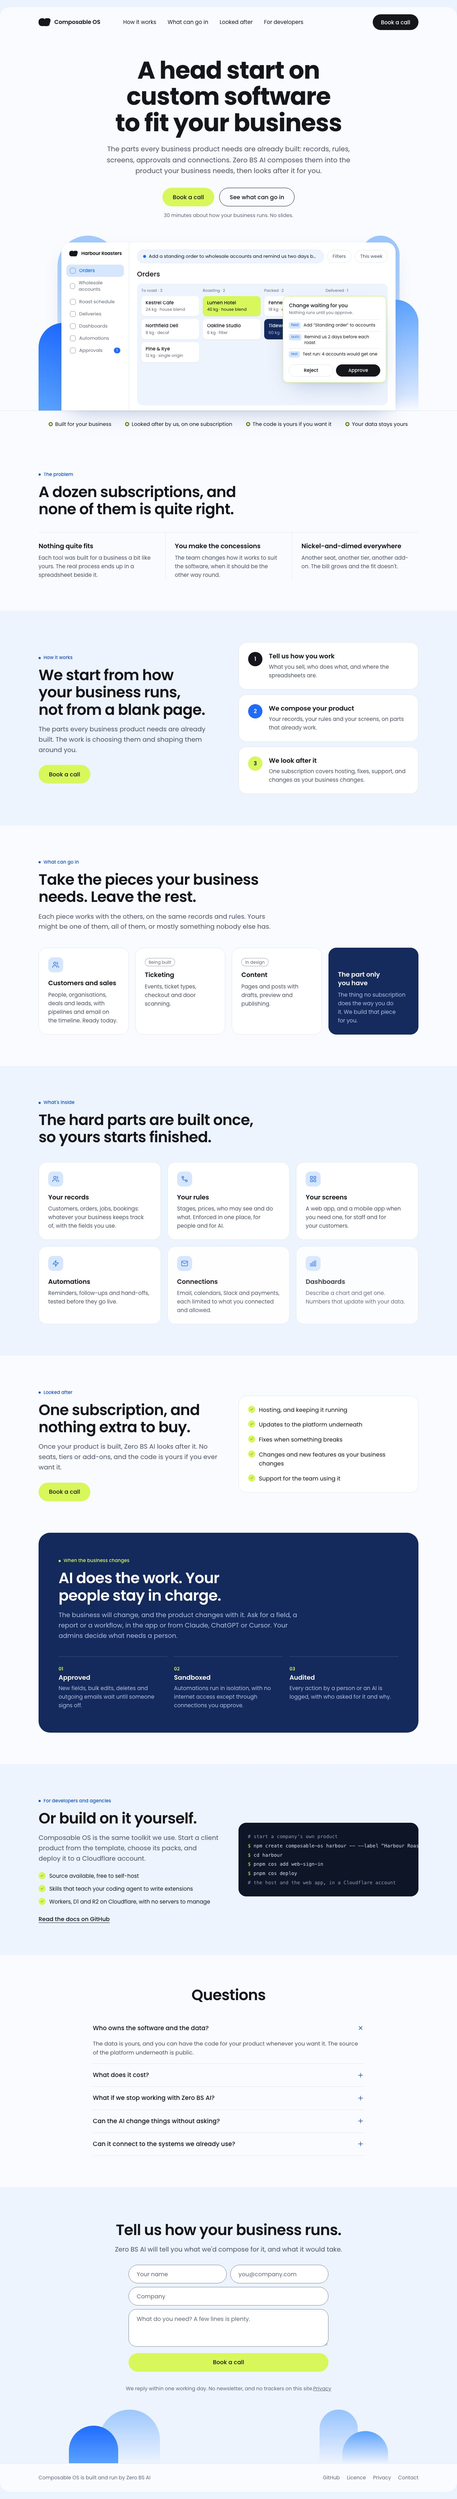
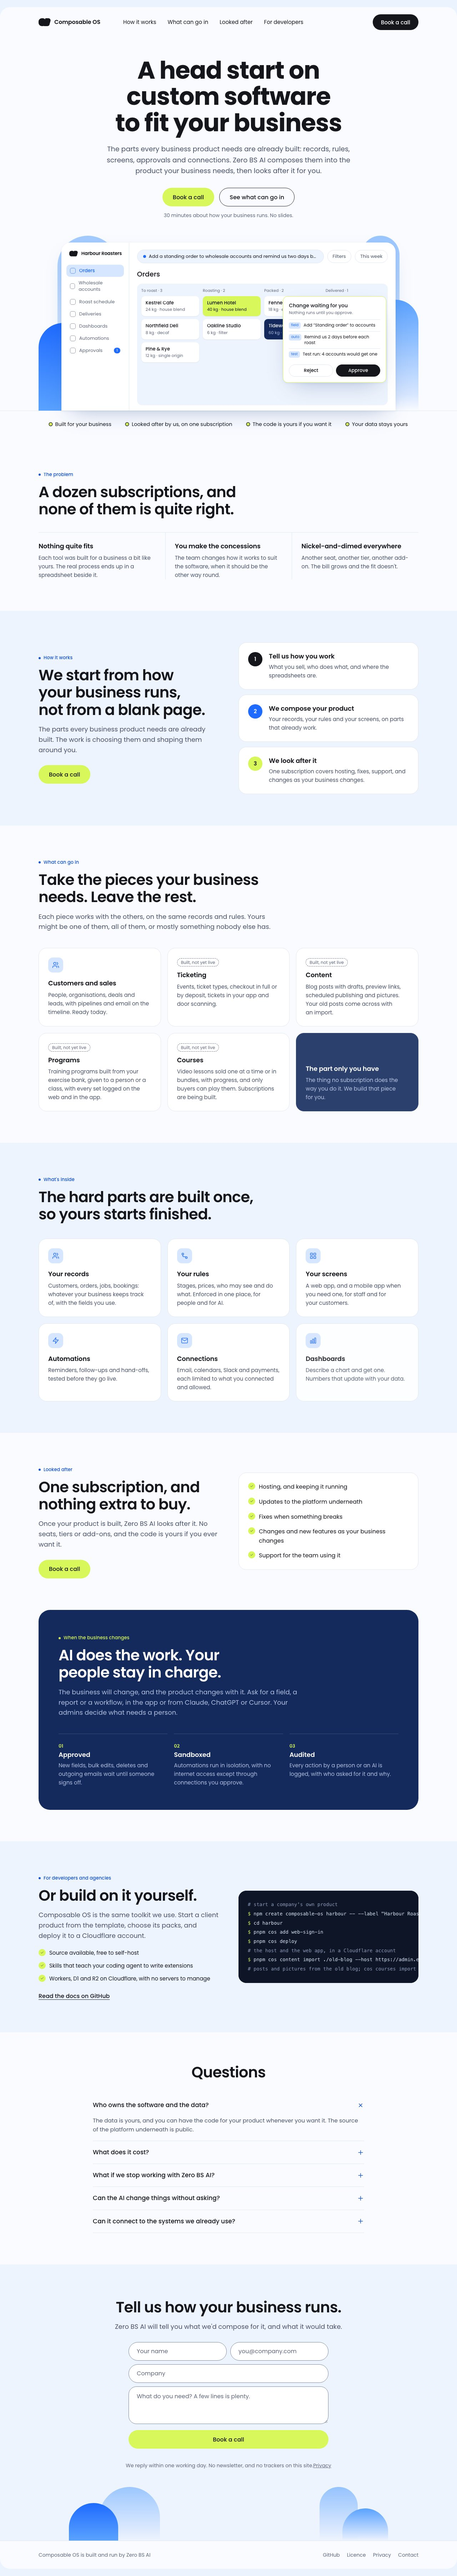
Site: catch up with the packs on main (Ticketing, Content, Programs, Courses), the import commands, and the roadmap's status cells
Row 5 gives Ticketing, Content, Programs and Courses the status 'Built, not yet live' (built,
merged and tested; no customer yet; Stripe and Stream run only against the test double), with
Courses' subscriptions 'being built' (stage 32a, PR #218 merged, step 3 on a branch). SITE.md
says what each status word means, when a pack moves to 'Ready today', and why Stream and Stripe
Tax add no connection. The developer section shows cos content import and names cos courses
import. The roadmap's cells for stages 27, 28, 32, 41 and 42 say what is merged and what has not
run.

diff --git a/apps/marketing/src/styles/landing.css b/apps/marketing/src/styles/landing.css
@@ -304,9 +304,6 @@
   gap: 18px;
   margin-top: 44px;
 }
-.grid.four {
-  grid-template-columns: repeat(4, 1fr);
-}
 .grid .card p {
   font-size: 15px;
   margin-top: 8px;
@@ -652,7 +649,6 @@
     width: 250px;
   }
   .grid,
-  .grid.four,
   .pains,
   .call {
     grid-template-columns: 1fr;
@@ -672,10 +668,5 @@
   }
   .final {
     padding-top: 64px;
-  }
-}
-@media (min-width: 901px) and (max-width: 1100px) {
-  .grid.four {
-    grid-template-columns: repeat(2, 1fr);
   }
 }

diff --git a/docs/roadmap.md b/docs/roadmap.md
@@ -31,8 +31,8 @@ risk for the next.
 | 24 | Client apps | One `cos` command; a template for new client repos (TanStack Start web, Expo mobile) and an adopt path for existing ones; platform packages on npm; the service binding to the host, with customers signing in on the company's domain; packs as packages with headless hooks; MIT blocks shipped inside the release | built, in review |
 | 25 | States, orders and payments | One transition engine under `states` and `stages`; the Order base record, priced by the host, in one currency per deployment; guest checkout; a payments gatekeeper for Stripe on the org's own account, with a hosted page, webhooks and refunds through approval | built, in review |
 | 26 | Capacity and holds | The `capacity` behaviour: places that never go below zero, holds that last as long as their unpaid order, in the write's own batch | built, in review |
-| 27 | Ticketing, and Ghetto as the first client | The Ticketing pack (events, ticket types, tickets, check-in); web checkout, the app's ticket wallet and door scanning for Ghetto Movement; packages and paying by deposit | spec agreed |
-| 28 | Content | The `publishable` behaviour, rich text as structured JSON, media, slugs, preview; the Content pack; Ghetto's blog off EmDash | spec agreed |
+| 27 | Ticketing, and Ghetto as the first client | The Ticketing pack (events, ticket types, tickets, check-in); web checkout, the app's ticket wallet and door scanning for Ghetto Movement; packages and paying by deposit | built: steps 1 to 5 (PRs #156, #158, #159, #164) and tax at checkout (PR #205); steps 6 and 7 (the first client's deployment, a test-mode sale, the live sale) not yet run, and nothing yet run against real Stripe |
+| 28 | Content | The `publishable` behaviour, rich text as structured JSON, media, slugs, preview; the Content pack; Ghetto's blog off EmDash | built: steps 1 to 6 (PRs #179, #180, #182), `cos content import` (PR #185) and criterion 12, an AI asks to publish (PR #191); step 7, the first client's blog moved, not yet run |
 
 The approval pipeline is built up over several stages: the gate in 1, the queue and simulation in 2,
 extension diffs in 3, the adjudicator in 7.
@@ -137,7 +137,7 @@ gets its interview and spec when a client needs it, and not before.
 | 29 | Forms | Public writes as a primitive; a Forms pack: enquiry forms, sign-ups, waivers with a signature, surveys, reviews and feedback | not specced |
 | 30 | Notifications | Email, SMS and push as one primitive: templates, a person's preferences, an SMS gatekeeper, push to client apps | not specced |
 | 31 | Recurring schedules and Bookings | The `recurring` behaviour (a timetable generates sessions); a Bookings pack: classes, appointments, rooms, waitlists, late-cancel rules | not specced |
-| 32 | Allowances, recurring billing and Memberships | The `allowance` behaviour (a pass or plan grants uses, a booking spends one); recurring charges through the payments gatekeeper with retries, pauses and cancellation; a Memberships pack; subscriptions to courses as a third source of stage 42's access (decided at stage 42's interview: a subscription covers every published course, later ones too; a card at the start of the trial, charged when it ends unless cancelled, one trial per person; today's subscribers stay on the hosted platform until this stage, then subscribe again, free until their paid-up date, the old one ending at its period end: [stage 42](stages/42-courses.md), "Decided for stage 32"). Split in two: 32a, the subscription (the course subscription ships on it), then 32b, allowances and Memberships, with stage 31 ([spec](stages/32-memberships.md)) | spec agreed (32a building; 32b waits for stage 31) |
+| 32 | Allowances, recurring billing and Memberships | The `allowance` behaviour (a pass or plan grants uses, a booking spends one); recurring charges through the payments gatekeeper with retries, pauses and cancellation; a Memberships pack; subscriptions to courses as a third source of stage 42's access (decided at stage 42's interview: a subscription covers every published course, later ones too; a card at the start of the trial, charged when it ends unless cancelled, one trial per person; today's subscribers stay on the hosted platform until this stage, then subscribe again, free until their paid-up date, the old one ending at its period end: [stage 42](stages/42-courses.md), "Decided for stage 32"). Split in two: 32a, the subscription (the course subscription ships on it), then 32b, allowances and Memberships, with stage 31 ([spec](stages/32-memberships.md)) | 32a steps 1 and 2 built (PR #218: subscriptions at the payments gatekeeper, the subscription record, an order per paid period); step 3 (the one-trial rule, the course plan, members' self-service, the staff side) on a branch, not merged; step 4 (continuation offers, the test-mode runbook) to follow; 32b spec agreed, waits for stage 31; nothing yet run against real Stripe |
 | 33 | Leaving Mindbody | Import of clients, visit history, passes and schedules; a period where both run; what happens to stored payment details | not specced |
 | 34 | Price adjustments and Offers | Adjustments on orders as a primitive; an Offers pack: promo codes, gift cards, referrals, loyalty | not specced |
 | 35 | Invoices and quotes | Quote, accept, invoice, pay, chase; PDF output; built on orders | not specced |
@@ -146,8 +146,8 @@ gets its interview and spec when a client needs it, and not before.
 | 38 | Knowledge base | Staff procedures and customer help pages; built on Content | not specced |
 | 39 | Jobs and projects | Work with stages, tasks and time spent; built on `stages` and Tasks | not specced |
 | 40 | Rosters | Shifts, availability and timesheets; built on `recurring` | not specced |
-| 41 | Programs | A bank of exercises and programs built from it in one layout (weeks, sessions, blocks, items with typed sets and levels); assigned to a person or a class type with dates; every set logged against its target ([spec](stages/41-programs.md)) | in build: steps 1 to 6 built (the spine; the Training dashboard, views and Person tab; hooks and twelve blocks; draft and text import); step 7 (Ghetto) next |
-| 42 | Courses | Video lessons with levels and progress in Cloudflare Stream with signed playback, sold one at a time or as fixed bundles on the web; tax worked out by the provider at checkout on courses and tickets alike (built first, as it touches Ticketing); built on Programs and orders. Subscriptions wait for stage 32; today's subscribers stay on the hosted platform until then ([spec](stages/42-courses.md)) | spec agreed (interview 2026-11-23, follow-ups the same day) |
+| 41 | Programs | A bank of exercises and programs built from it in one layout (weeks, sessions, blocks, items with typed sets and levels); assigned to a person or a class type with dates; every set logged against its target ([spec](stages/41-programs.md)) | built: steps 1 to 6 (the spine; the Training dashboard, views and Person tab; hooks and twelve blocks; draft and text import; PRs #162, #170) and AI publish requests (PR #191); step 7, the first client, not yet run |
+| 42 | Courses | Video lessons with levels and progress in Cloudflare Stream with signed playback, sold one at a time or as fixed bundles on the web; tax worked out by the provider at checkout on courses and tickets alike (built first, as it touches Ticketing); built on Programs and orders. Subscriptions wait for stage 32; today's subscribers stay on the hosted platform until then ([spec](stages/42-courses.md)) | built: steps 1 to 8 (tax at checkout, PR #205; the spine, PR #204; the pack, PR #206; `cos courses import`, PR #216), with the outline not yet checked against two real programs; step 9, the first client's import, not yet run; nothing yet run against real Stripe or Stream (spec agreed at the interview of 2026-11-23, follow-ups the same day) |
 
 ### How a module is built
 

diff --git a/apps/marketing/SITE.md b/apps/marketing/SITE.md
@@ -20,21 +20,44 @@ the same PR** (`AGENTS.md`, "The site"). The decisions behind it are in
 | 2 | Facts bar (`Hero`) | Built for your business. Looked after by us, on one subscription. The code is yours if you want it. Your data stays yours. |
 | 3 | The problem (`Problem`) | A dozen subscriptions and none is quite right: nothing quite fits, you make the concessions, nickel-and-dimed everywhere. |
 | 4 | How it works (`HowItWorks`) | Three steps: tell us how you work; we compose your product; we look after it (hosting, fixes, support and changes). |
-| 5 | What can go in (`Pieces`) | **Customers and sales** (people, organisations, deals, leads, pipelines, email on the timeline): ready today. **Ticketing** (events, ticket types, checkout, door scanning): being built (the pack exists; stage 27 is not finished). **Content** (pages and posts, drafts, preview, publishing): in design. **The part only you have:** built for that business. |
+| 5 | What can go in (`Pieces`) | **Customers and sales** (people, organisations, deals, leads, pipelines, email on the timeline): ready today. **Ticketing** (events, ticket types, checkout in full or by deposit, tickets in the app, door scanning): built, not yet live (stage 27 steps 1 to 5). **Content** (blog posts, drafts, preview links, scheduled publishing, pictures, an import of old posts): built, not yet live (stage 28). **Programs** (training programs from an exercise bank, given to a person or a class, every set logged on the web and in the app): built, not yet live (stage 41). **Courses** (video lessons sold one at a time or in bundles, progress, only buyers can play them; subscriptions being built): built, not yet live (stage 42; subscriptions are stage 32a). **The part only you have:** built for that business. |
 | 6 | What's inside (`Inside`) | Every product starts with: your records; your rules (stages, prices, who may see and do what, for people and AI); your screens (a web app, a mobile app when needed, for staff and customers); automations (tested before they go live); connections (email, calendars, Slack, payments); dashboards (describe a chart and get one). |
 | 7 | Looked after (`Care`) | The subscription covers: hosting and keeping it running; updates to the platform; fixes; changes and new features as the business changes; support for the team. No seats, tiers or add-ons. |
 | 8 | When the business changes (`Control`) | The product is changed by asking, in the app or from Claude, ChatGPT or Cursor. Admins decide what needs a person. Approved (new fields, bulk edits, deletes and outgoing emails wait for sign-off), sandboxed (no internet except through approved connections), audited (every action logged with who and why). |
-| 9 | For developers and agencies (`Developers`) | The same toolkit is available: source available and free to self-host; skills that teach a coding agent to write extensions; Workers, D1 and R2 on Cloudflare. Commands: `npm create composable-os`, `pnpm cos add web-sign-in`, `pnpm cos deploy`. |
+| 9 | For developers and agencies (`Developers`) | The same toolkit is available: source available and free to self-host; skills that teach a coding agent to write extensions; Workers, D1 and R2 on Cloudflare. Commands: `npm create composable-os`, `pnpm cos add web-sign-in`, `pnpm cos deploy`, `pnpm cos content import` (and, named in a comment, `cos courses import`). |
 | 10 | Questions (`src/faq.ts`) | The data is the customer's and they can have the code; the platform's source is public. Cost: one subscription once built, figure after the call. Leaving: they take the code and data. The AI changes only what admins allow. Connections today: email, calendars, Slack, payments, webhooks. |
 | 11 | The close (`FinalCta`, `CallForm`) | The form: name, email (required), company, what you need. A reply within one working day. No newsletter, no trackers. |
 | | Footer | Composable OS is built and run by Zero BS AI. |
 
+## What the status words mean
+
+Row 5 gives each piece one of these, and nothing stronger than the repository shows:
+
+- **Ready today:** built, merged and tested, and either part of the platform's own product (the
+  CRM) or used by a customer in production; it goes into a product as it is.
+- **Built, not yet live:** built, merged and tested end to end, and it can go into a product, but
+  no customer has used it yet, and anything it needs from an outside service (Stripe for payments
+  and tax, Cloudflare Stream for video) has run only against the test double.
+- **Being built:** part of it is merged and the rest is in progress.
+- **In design:** agreed in a spec and next to be built; nothing merged yet. No piece is in design
+  today: Memberships and class passes (stage 32b) wait for Bookings (stage 31), which has no spec,
+  so neither is on the page.
+
 ## What changes it
 
-- A pack or piece is added, or one marked "being built" or "in design" moves on (row 5, and the questions). Ticketing becomes "Ready today" when stage 27 is done.
-- A new kind of connection ships, or one is removed (rows 6 and 10).
+- A pack or piece is added, or one marked "being built" or "in design" moves on (row 5, and the questions).
+- A pack goes live: its first customer uses it in production, and its payments or video have run
+  against the real Stripe or Stream account. It moves from "Built, not yet live" to "Ready today"
+  (row 5). Ticketing and Courses need both; Content and Programs the first.
+- A merged step changes what a built pack does, in words row 5 uses (a new way to pay, a new kind
+  of lesson, subscriptions finished for Courses).
+- A new kind of connection ships, or one is removed (rows 6 and 10). A connection is to a system
+  the company already uses. Video in Cloudflare Stream is the host's own store (stage 42, ADR
+  0475), not a connection, and tax at checkout is part of the payments connection (ADR 0479), so
+  neither adds one.
 - The approval defaults, the sandbox or the audit log change (row 8 and the questions).
-- The client CLI's commands change (row 9; `docs/deploying.md` changes with it).
+- The client CLI's commands change, including a new import command (row 9; `docs/deploying.md` or
+  `docs/importing.md` changes with it).
 - The licence changes (row 9 and the questions).
 - The offer changes: what the subscription covers, the call, the reply time (rows 1, 4, 7, 11).
 - Real proof arrives: Ghetto's quote and case study go in as a new section after row 5.
